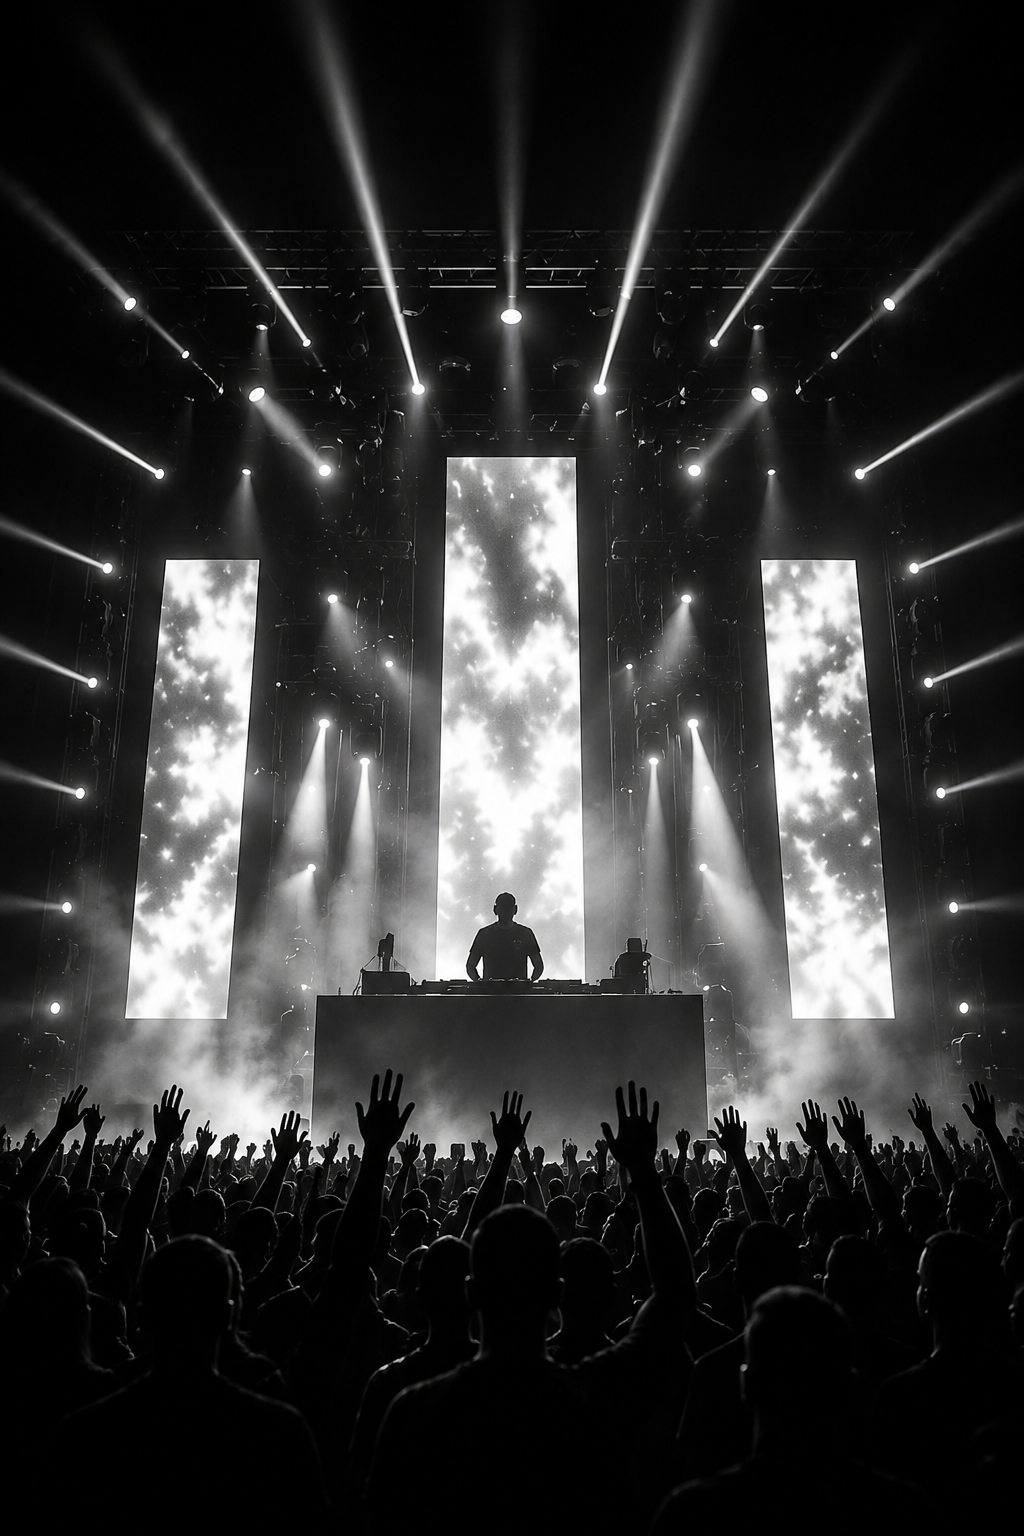
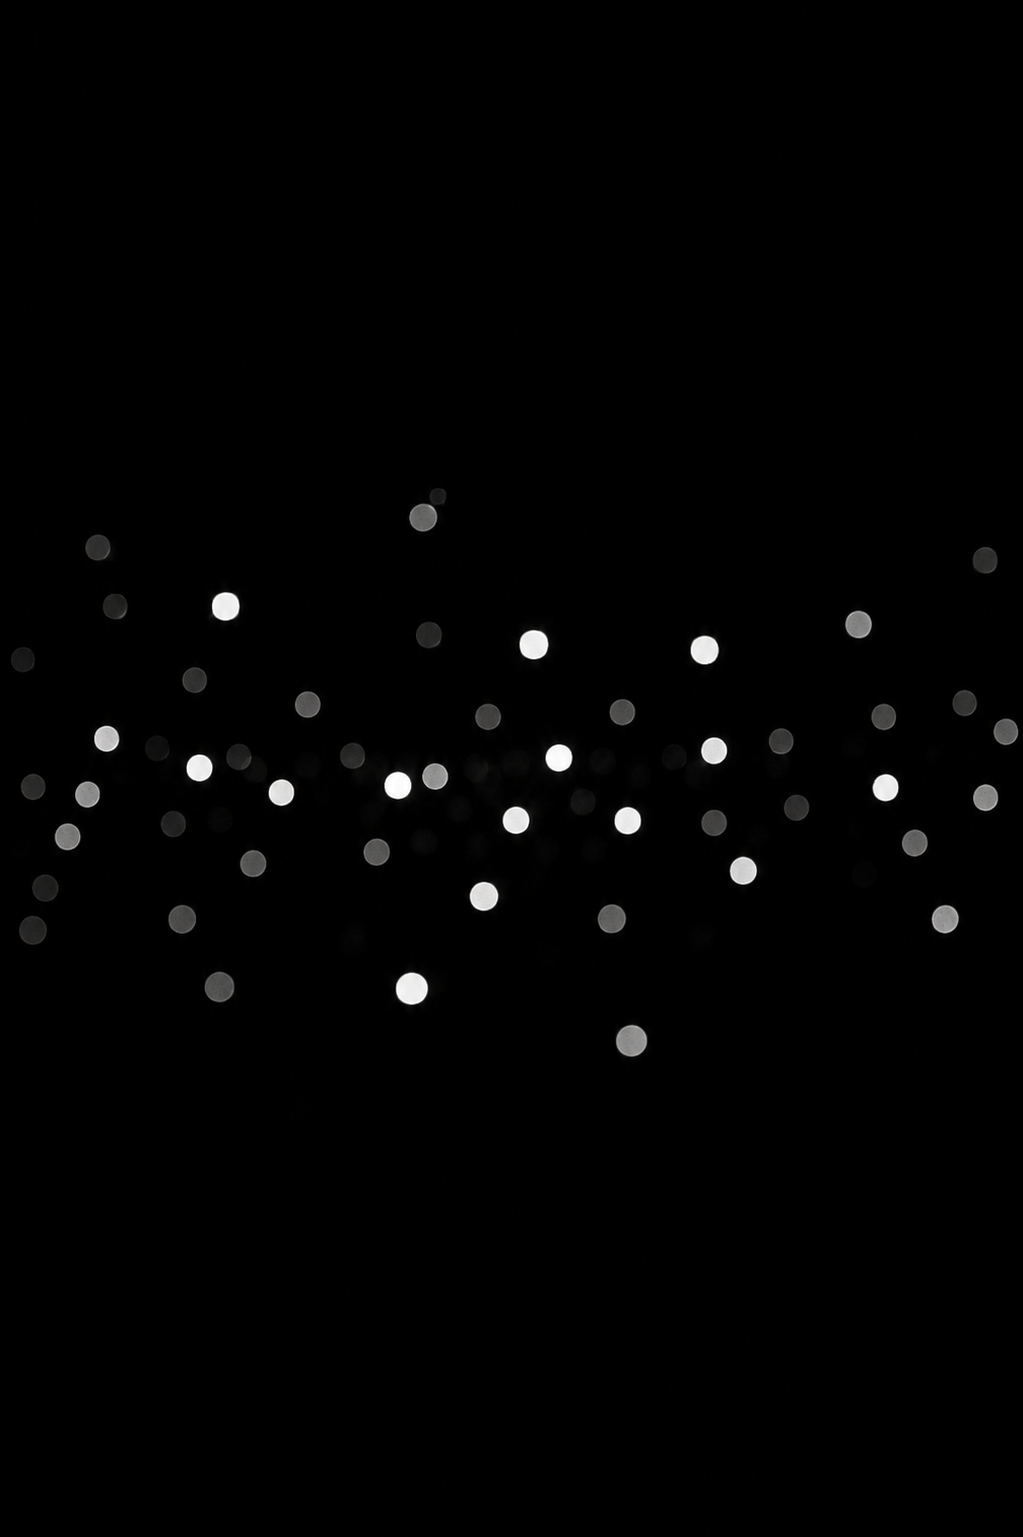
cambio de imagen

diff --git a/src/componentes/header/Header.css b/src/componentes/header/Header.css
@@ -335,7 +335,7 @@
   .hero {
     min-height: auto;
 
-    height: 760px;
+    height: 650px;
   }
 
   .hero__content {
@@ -460,7 +460,7 @@
 
 @media (max-width: 380px) {
   .hero {
-    height: 700px;
+    height: 620px;
   }
 
   .hero__content {
